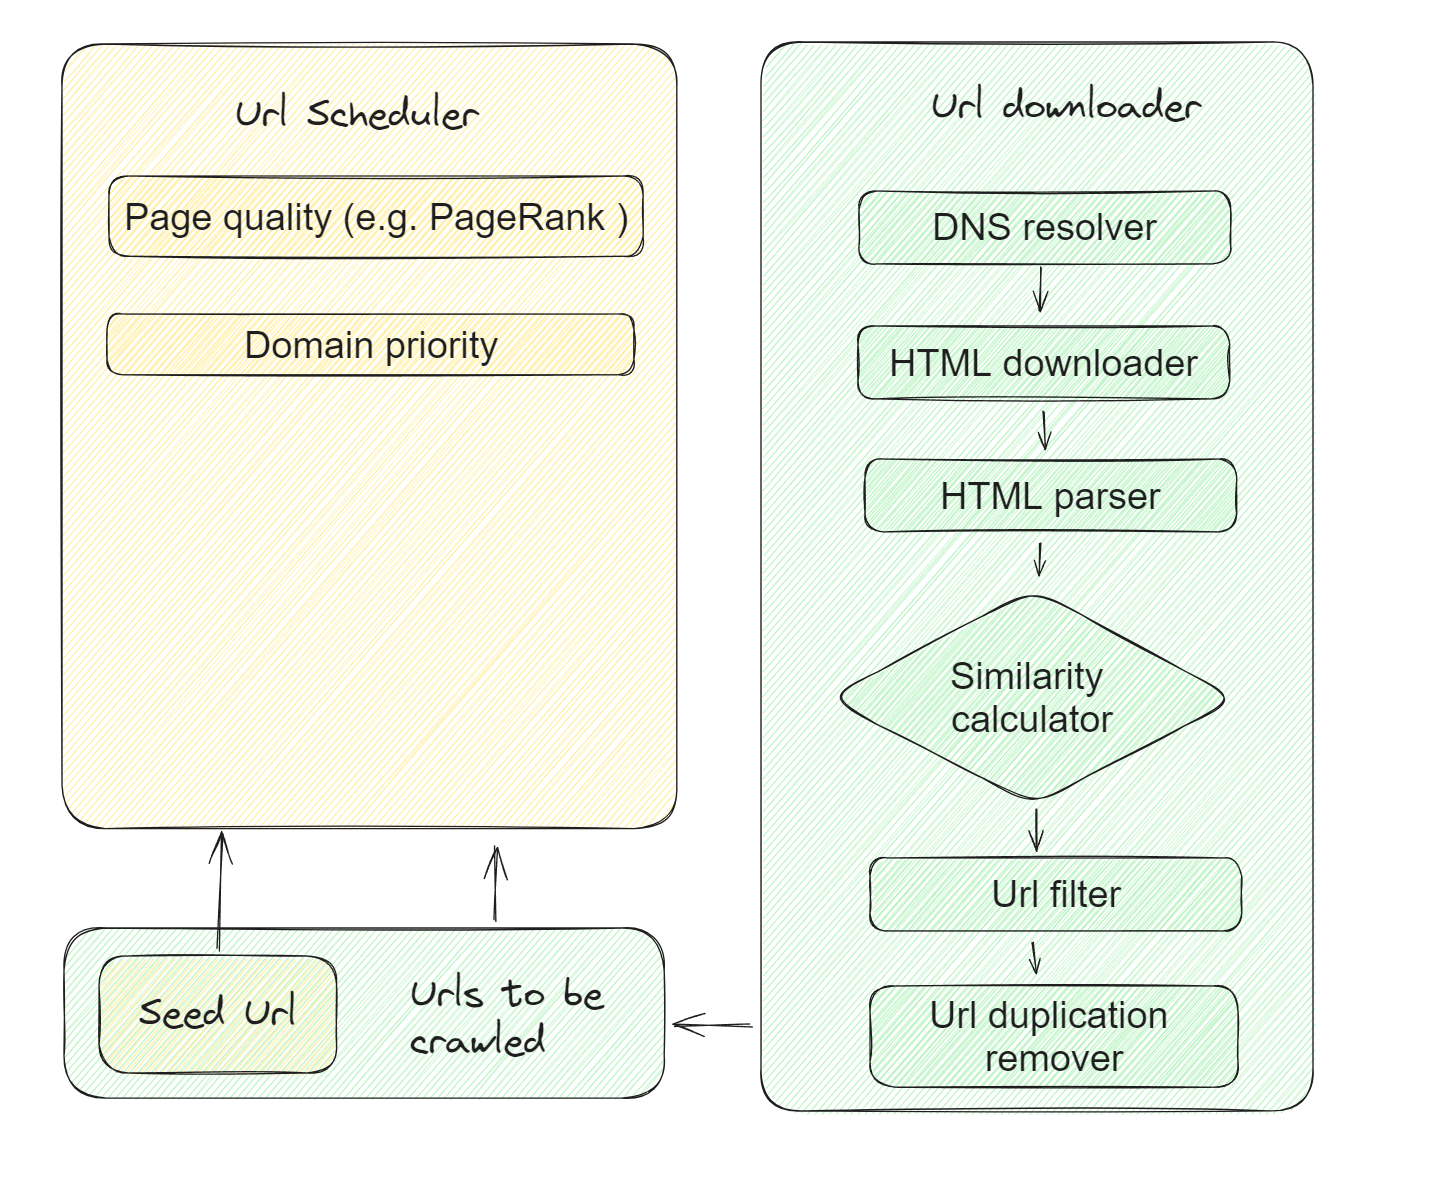
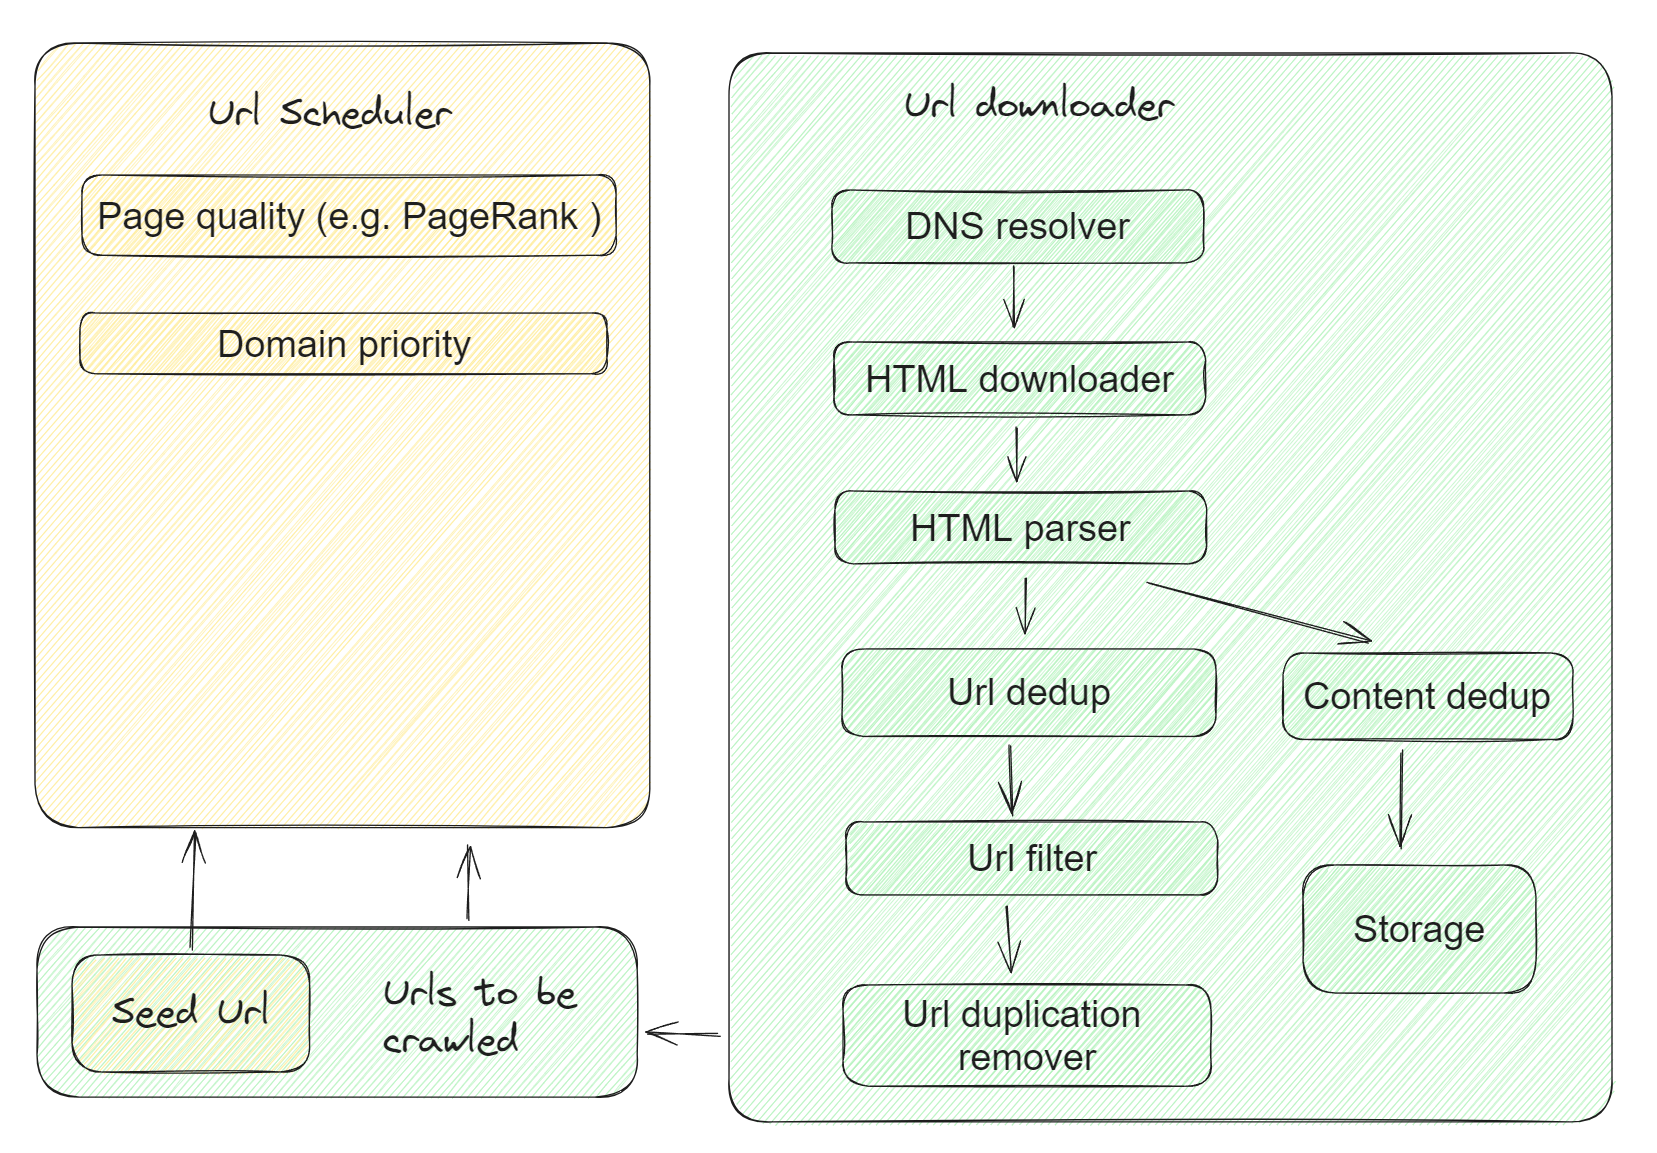
refactor

diff --git a/scenario_webcrawler/efficiency.md b/scenario_webcrawler/efficiency.md
@@ -1,15 +1,13 @@
 - [Challenges](#challenges)
 - [Flowchart](#flowchart)
+- [Components map](#components-map)
 - [Scheduler](#scheduler)
-  - [Steps](#steps)
   - [Url priority factors](#url-priority-factors)
     - [Page content quality](#page-content-quality)
     - [Frequency of change](#frequency-of-change)
     - [Politeness](#politeness)
     - [Other heuristics](#other-heuristics)
-- [Connection between scheduler and downloader](#connection-between-scheduler-and-downloader)
 - [Downloader](#downloader)
-  - [Steps](#steps-1)
   - [Url filter](#url-filter)
     - [Robots.txt](#robotstxt)
   - [Duplication remover](#duplication-remover)
@@ -24,12 +22,13 @@
 
 ![Flowchart](../.gitbook/assets/urlSchedulerDownloader.png)
 
-# Scheduler
-## Steps
-* A prioritizer first assigns to the URL an integer priority i between 1 and F based on priority factors.    
-* Now that it has been assigned priority i, the URL is now appended to the ith of the front queues
+# Components map
 
-![Crawler url frontier](../.gitbook/assets/crawler_UrlFrontier.png)
+![Components map](../.gitbook/assets/componentsMap.png)
+
+![Crawler host to back queue mapping](../.gitbook/assets/crawler_hostToBackQueueMapping.png)
+
+# Scheduler
 
 ## Url priority factors
 ### Page content quality
@@ -44,21 +43,6 @@
 ### Other heuristics
 * application-dependent and explicit – for instance, URLs from news services may always be assigned the highest priority. 
 
-# Connection between scheduler and downloader
-
-* In standalone case, scheduler is essentially a priority queue inside memory. 
-* Could use a MySQL DB task table if scheduler queue grows too big
-  * state (working/idle): Whether it is being crawling.
-  * priority (1/0): 
-  * available time: frequency. When to fetch the next time.
-
-| id | url                                                       | state     | priority | available_time        |
-| -- | --------------------------------------------------------- | --------- | -------- | --------------------- |
-| 1  | “[http://www.sina.com/”](http://www.sina.com/%E2%80%9D)   | “idle”    | 1        | “2016-03-04 11:00 am” |
-| 2  | “[http://www.sina1.com/”](http://www.sina1.com/%E2%80%9D) | “working” | 1        | “2016-03-04 12:00 am” |
-| 3  | “[http://www.sina2.com/”](http://www.sina2.com/%E2%80%9D) | “idle”    | 0        | “2016-03-14 02:00 pm” |
-| 4  | “[http://www.sina3.com/”](http://www.sina3.com/%E2%80%9D) | “idle”    | 2        | “2016-03-12 04:25 am” |
-
 # Downloader
 * A set of downloader queues: Politeness
   * Each of the downloader queue maintains the following invariants: 
@@ -66,15 +50,6 @@
     * (ii) it only contains URLs from a single host
   * An auxiliary table T is used to maintain the mapping from hosts to download queues. Whenever a downloader queue is empty and is being re-filled from a front-queue, table T must be updated accordingly.
 
-## Steps
-1. A crawler thread requesting a URL from the frontier extracts the root of this heap and (if necessary) waits until the corresponding time entry te. 
-2. It then takes the URL u at the head of the downloader queue j corresponding to the extracted heap root, and proceeds to fetch the URL u. 
-3. After fetching u, the calling thread checks whether j is empty. 
-4. If so, it picks a front queue and extracts from its head a URL v. The choice of front queue is biased (usually by a random process) towards queues of higher priority, downloader that URLs of high priority flow more quickly into the back queues. We examine v to check whether there is already a back queue holding URLs from its host. 
-5. If so, v is added to that queue and we reach back to the front queues to find another candidate URL for insertion into the now-empty queue j. 
-6. This process continues until j is non-empty again. In any case, the thread inserts a heap entry for j with a new earliest time te based on the properties of the URL in j that was last fetched (such as when its host was last contacted as well as the time taken for the last fetch), then continues with its processing. For instance, the new entry te could be the current time plus ten times the last fetch time.
-
-![Crawler host to back queue mapping](../.gitbook/assets/crawler_hostToBackQueueMapping.png)
 
 ## Url filter
 
@@ -90,8 +65,8 @@
 
 ## Duplication remover
 ### Content similarity
-### Url similarity
-* The simplest implementation for this would use a simple fingerprint such as a checksum. 
-* A more sophisticated test would use shingles instead of fingerprints. (What is Shingles ???)
-* Bloom filter. A Bloom filter is a probabilistic data structure and is used for answering set-existential questions (eg: has this URL been crawled before?). Due its probabilistic nature, it can give erroneous results in the form of false positives. You can however tweak the error rate, allowing for only a small number of false positives. The great benefit is the large amount of memory you can save (much more memory efficient than Redis Hashes). If we start crawling pages in the hundreds of millions, we definitely would have to switch to this data structure. As for the false positives, well, there ain’t no harm in occasionally crawling the same page twice.        
+* The simplest implementation for this would use a checksum such as MD5. 
+* Use bloom filter to replace the hash table for storage. 
 
+### Url similarity
+* Bloom filter. A Bloom filter is a probabilistic data structure and is used for answering set-existential questions (eg: has this URL been crawled before?). Due its probabilistic nature, it can give erroneous results in the form of false positives. You can however tweak the error rate, allowing for only a small number of false positives. The great benefit is the large amount of memory you can save (much more memory efficient than Redis Hashes). If we start crawling pages in the hundreds of millions, we definitely would have to switch to this data structure. As for the false positives, well, there ain’t no harm in occasionally crawling the same page twice.        

diff --git a/scenario_webcrawler/storage.md b/scenario_webcrawler/storage.md
@@ -1,0 +1,49 @@
+- [Storage](#storage)
+  - [Scheduler output to downloader input DB schema](#scheduler-output-to-downloader-input-db-schema)
+  - [Crawled webpage schema](#crawled-webpage-schema)
+    - [DB selection](#db-selection)
+
+# Storage
+## Scheduler output to downloader input DB schema
+* In standalone case, scheduler is essentially a priority queue inside memory. 
+* Could use a MySQL DB task table if scheduler queue grows too big
+  * state (working/idle): Whether it is being crawling.
+  * priority (1/0): 
+  * available time: frequency. When to fetch the next time.
+
+| id | url                                                       | state     | priority | available_time        |
+| -- | --------------------------------------------------------- | --------- | -------- | --------------------- |
+| 1  | “[http://www.sina.com/”](http://www.sina.com/%E2%80%9D)   | “idle”    | 1        | “2016-03-04 11:00 am” |
+| 2  | “[http://www.sina1.com/”](http://www.sina1.com/%E2%80%9D) | “working” | 1        | “2016-03-04 12:00 am” |
+| 3  | “[http://www.sina2.com/”](http://www.sina2.com/%E2%80%9D) | “idle”    | 0        | “2016-03-14 02:00 pm” |
+| 4  | “[http://www.sina3.com/”](http://www.sina3.com/%E2%80%9D) | “idle”    | 2        | “2016-03-12 04:25 am” |
+
+
+## Crawled webpage schema
+
+```
+┌ ─ ─ ─ ─ ─ ─ ─ ─ ─ ─ ─ ─ ─ ─ ─ ─ ─ ─ ─ ─ ─ ─ ─ ─ ─ ─ ─ ─ ─ ─ ─ ─ ─ ─ ─ ─ ─ ─ ─ ─ ─ ─ ─ ─ ─ ─ ─ ─ ─ ┐
+                                               Storage                                               
+│  ┌───────────────────────────────┐                                                                │
+   │Webpage crawl history          │                                                                 
+│  │                               │                                                                │
+   │Url: string                    │                                                                 
+│  │Domain: string (sharding key)  │                                                                │
+   │Expected frequency: date       │                                                                 
+│  │Last crawl timestamp: date     │                                                                │
+   │Content signature: string      │                                                                 
+│  │(calculate similarity)         │                                                                │
+   │                               │                                                                 
+│  │                               │                                                                │
+   └───────────────────────────────┘                                                                 
+│                                                                                                   │
+ ─ ─ ─ ─ ─ ─ ─ ─ ─ ─ ─ ─ ─ ─ ─ ─ ─ ─ ─ ─ ─ ─ ─ ─ ─ ─ ─ ─ ─ ─ ─ ─ ─ ─ ─ ─ ─ ─ ─ ─ ─ ─ ─ ─ ─ ─ ─ ─ ─ ─
+```
+
+### DB selection
+
+* Wide-column preferred because snapshot of the same page could be stored - support 3-dimensional query
+
+```
+(row, column family, timestamp)
+```

diff --git a/scenario_webcrawler/overview.md b/scenario_webcrawler/overview.md
@@ -4,10 +4,16 @@
   - [Throughput](#throughput)
 - [Scenarios](#scenarios)
 - [Functional requirements](#functional-requirements)
+  - [Crawler scope](#crawler-scope)
+  - [Supported protocol](#supported-protocol)
+  - [Ajax page crawling](#ajax-page-crawling)
+  - [Auth manager](#auth-manager)
+  - [Verification code](#verification-code)
 - [Non-functional requirements](#non-functional-requirements)
   - [Efficiency](#efficiency)
   - [Robust](#robust)
   - [Scalability](#scalability)
+  - [Performance](#performance)
 - [Real world applications](#real-world-applications)
   - [Python scrapy](#python-scrapy)
   - [TODO](#todo)
@@ -23,16 +29,38 @@
 * Then it takes in total 20 * 12 * 500KB * 2*10^9 = 
 
 ## Throughput
-* 2 * 10^9 / (30 * 24 * 60 * 60) = 800
+* 2 * 10^9 / (30 * 24 * 60 * 60) = 800 RPS
 
 # Scenarios
 # Functional requirements
-
+## Crawler scope
 * Crawl a specific website? Or entire internet for usage of a search engine
-* Want to crawl dynamic pages containing Ajax pages? Or static pages will be enough?
-* Want to handle verification code?
-* Store HTML pages only? Or need other types of media such as images and videos. Need to store historical webpages or only the latest webpages?
+
+## Supported protocol
 * What protocols we support: HTTP/HTTPS/FTP
+* Store HTML pages only? Or need other types of media such as images and videos. Need to store historical webpages or only the latest webpages?
+
+## Ajax page crawling
+* Want to crawl dynamic pages containing Ajax pages? Or static pages will be enough?
+* For content loaded by Ajax, you will not be able to see it when viewing the source page, but you will be able to see it by browser element inspector. As a result, crawler will need to have customized way to access these contents. 
+  1. Manually mimic a request by copying relevant fields (cookie, user-agent, origin, etc.).
+     * Error prone and requires lots of expertise
+  2. Use selenium to click the load button and crawl pages
+
+## Auth manager
+* If the target website requires logging in, then customized accounts are needed for crawling. When there is a large number of content to be crawled, hundreds or thousands of accounts need to be managed because there will be rate limiting on a single account. 
+* Design a cookie pool, typical problems include:
+  * When to detect that the pool size is not big enough?
+  * How to manage different types of cookie for different websites
+  * How to know cookie gets expired？
+  * Unified way for configuration
+
+## Verification code
+* Want to handle verification code?
+  * Optical character recognition mechanism
+  * How to handle sliding verification code
+
+
 
 # Non-functional requirements
 ## Efficiency
@@ -43,7 +71,9 @@
 * Avoid deadlocks: The Web contains servers that create spider traps, which are generators of web pages that mislead crawlers into getting stuck fetching an infinite number of pages in a particular domain. Crawlers must be designed to be resilient to such traps. Not all such traps are malicious; some are the inadvertent side-effect of faulty website development.
 
 ## Scalability
-* Scalability: Could crawl more content by simply adding machines
+* Could crawl more content by simply adding machines
+
+## Performance
 
 
 # Real world applications

diff --git a/scenario_webcrawler/robustness.md b/scenario_webcrawler/robustness.md
@@ -1,11 +1,12 @@
-# Distributed crawler
+- [Robustness](#robustness)
+  - [No need to be highly available](#no-need-to-be-highly-available)
+  - [Num of machines](#num-of-machines)
 
-## Multi-region
+# Robustness
+## No need to be highly available
+* The scheduler and downloader is an offline system and could be restarted if needed. 
+* However, they need to recover from failure such as timeout or parsing failures. Different types of exceptions need to be taken care of. 
 
-* When Google's webpage crawls China's webpages, it will be really really slow. Deploy crawler servers in multiple regions.
+## Num of machines
+* From the previous analysis, the write throughput is around 800 RPS. A single scheduler machine will be enough. 
 
-## Scale by functional partitioning
-
-* Crawler service
-* Task service
-* Storage service

diff --git a/scenario_webcrawler/performance.md b/scenario_webcrawler/performance.md
@@ -1,0 +1,7 @@
+# Performance
+
+## DNS resolver
+
+* DNS resolution is a well-known bottleneck in web crawling. Due to the distributed nature of the Domain Name Service, DNS resolution may entail multiple requests and round-trips across the internet, requiring seconds and sometimes even longer. Right away, this puts in jeopardy our goal of fetching several hundred documents a second. 
+  * A standard remedy is to introduce caching: URLs for which we have recently performed DNS lookups are likely to be found in the DNS cache, avoiding the need to go to the DNS servers on the internet. However, obeying politeness constraints limits the of cache hit rate.
+  * [https://nlp.stanford.edu/IR-book/pdf/20crawl.pdf](https://nlp.stanford.edu/IR-book/pdf/20crawl.pdf) for more details.

diff --git a/SUMMARY.md b/SUMMARY.md
@@ -54,9 +54,10 @@
   * [Workflow Engine](scenario_taskScheduler/workflowEngine.md)
   * [Airflow Arch](scenario_taskScheduler/airflow_arch.md)
 * [Distributed crawler](scenario_webcrawler/overview.md)
-  * [Components](scenario_webcrawler/components.md)
   * [Efficiency](scenario_webcrawler/efficiency.md)
   * [Robustness](scenario_webcrawler/robustness.md)
+  * [Performance](scenario_webcrawler/performance.md)
+  * [Storage](scenario_webcrawler/storage.md)
   * [Standalone implementation](scenario_webcrawler/standalone_impl.md.md)
 
 ## Search scenarios
